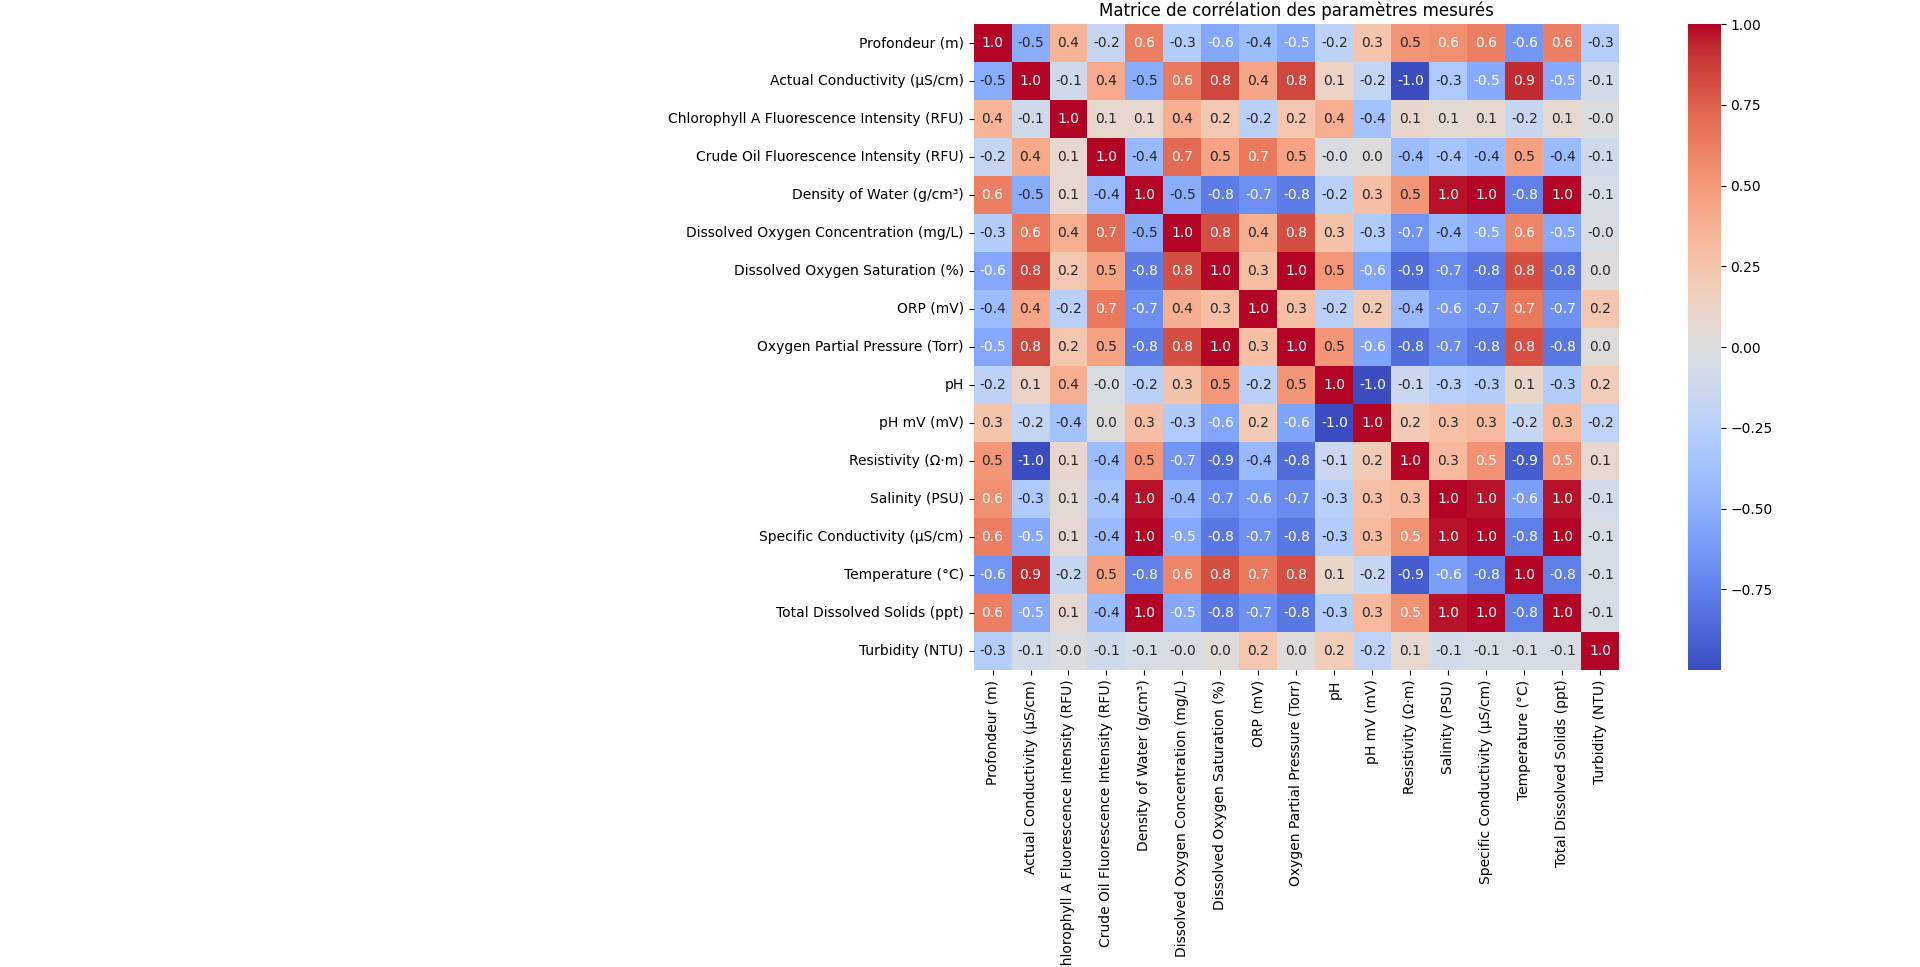
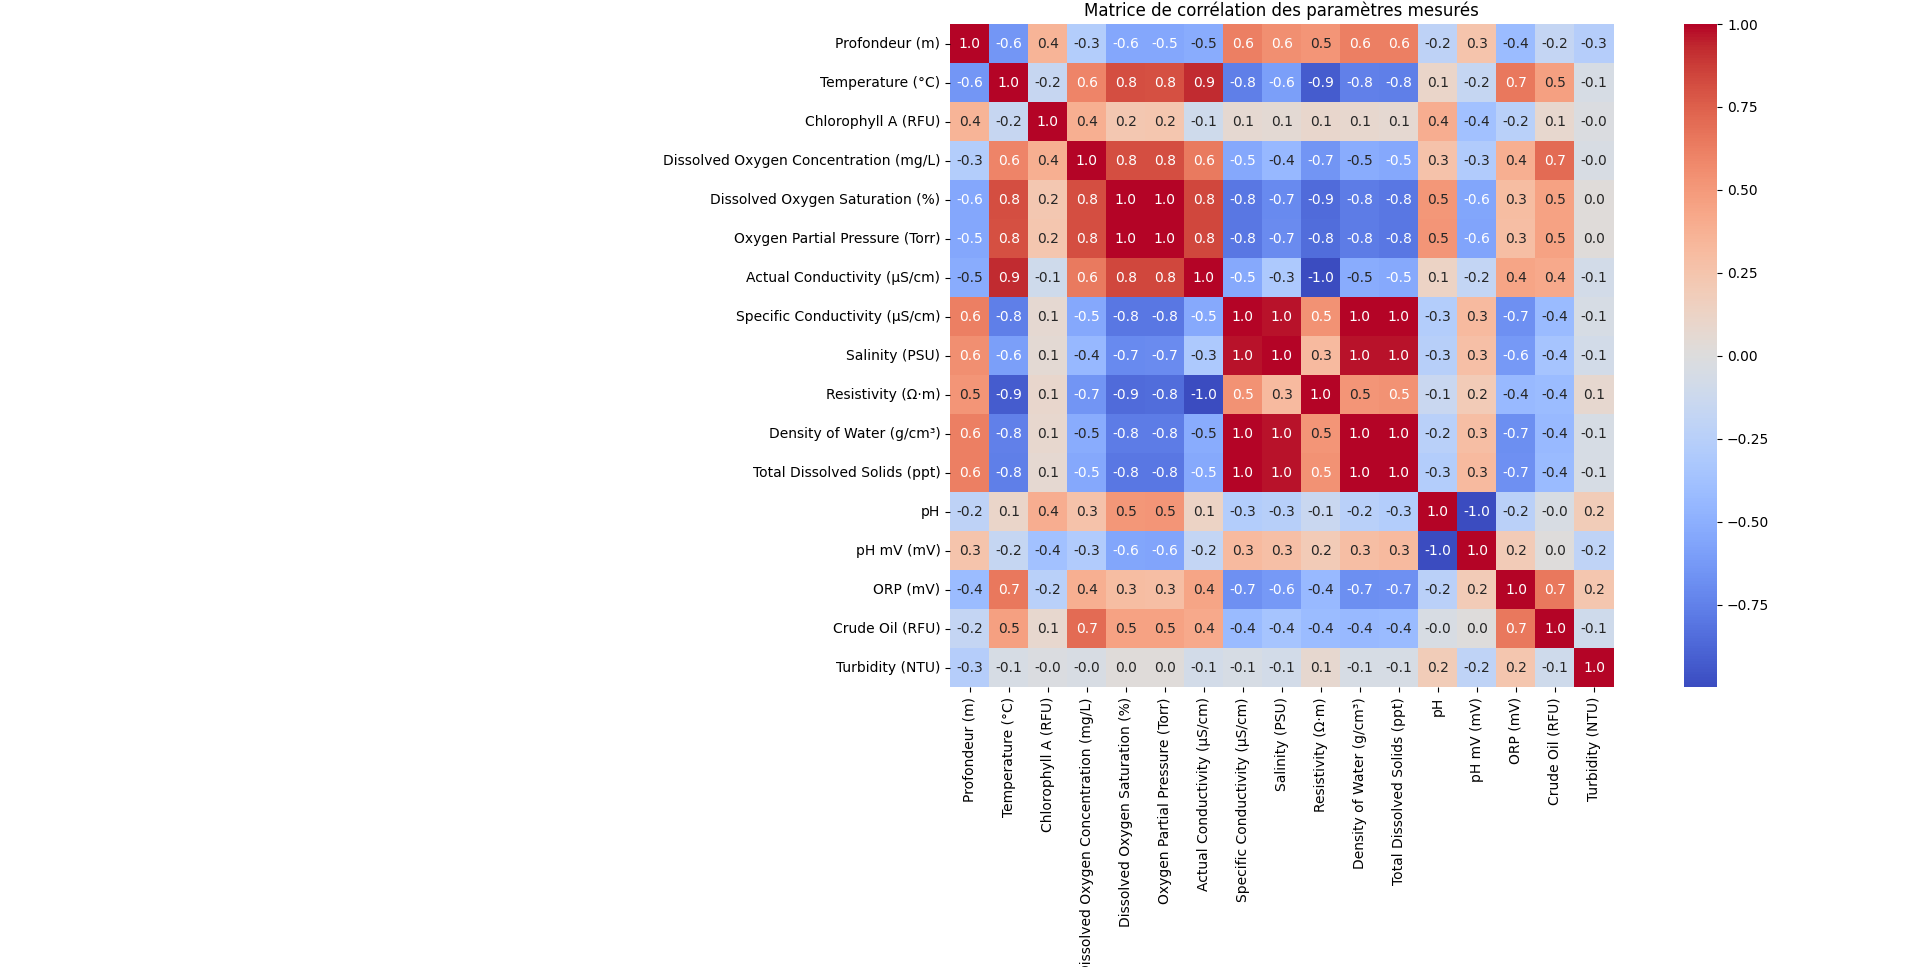
Refactor CSV columns and update data extraction script
Reordered and renamed columns in moyennes_paliers.csv for improved clarity and consistency. Updated save_data_csv.py to match new column order and naming, removed unnecessary comments, and simplified column sorting and filtering logic. Updated correlation 24-10.png to reflect latest results.

Changed region(s): [[0.3438, 0.0, 0.8438, 0.9928], [0.875, 0.031, 0.9375, 0.7135]]

diff --git a/scripts/save_data_csv.py b/scripts/save_data_csv.py
@@ -3,7 +3,7 @@ import glob
 import re
 import pandas as pd
 
-# Colonnes à ignorer (NE PAS inclure les colonnes Temperature ici si tu veux garder la "dernière" température)
+# Colonnes à ignorer
 IGNORER_COLONNES = {
     "DroneEasting", "Ts", "Depth", "Altitude", "Heading",
     "PilotLat", "PilotLon", "DroneLat", "DroneLon",
@@ -16,7 +16,7 @@ IGNORER_JOUR_VALEUR = {
     "2025-09-24": {"Dissolved Oxygen Concentration", "Dissolved Oxygen Saturation", "Oxygen Partial Pressure"},
 }
 
-# bornes en m des paliers (inchangées)
+# bornes en m des paliers
 PALIERS = {
     "1m":  (0.5, 2),
     "8m":  (6.5, 10),
@@ -42,7 +42,7 @@ def find_column(df: pd.DataFrame, target: str):
 
 def extraire_datetime(file_path):
     """
-    Lit la feuille 'Dive info' et récupère la datetime (même logique que précédemment).
+    Lit la feuille 'Dive info' et récupère la datetime
     """
     try:
         dive_info = pd.read_excel(file_path, sheet_name="Dive info", header=None)
@@ -97,7 +97,7 @@ def extraire_moyennes_par_palier(file_path):
 
 def _last_temperature_column(cols):
     """
-    Retourne le nom de la colonne 'temperature' à garder (celle avec le plus grand suffixe numérique).
+    Retourne le nom de la colonne 'temperature' à garder.
     Reconnaît: Temperature, Temperature_2, Temperature 3, Temperature-10, etc.
     Si aucune colonne temperature trouvée -> retourne None.
     """
@@ -152,7 +152,6 @@ def analyser_dossier_paliers(dossier):
         df_palier["Date"] = dt.normalize()
         df_palier["Profondeur"] = df_palier["Palier"].map(PALIERS_VALEUR)
 
-        # supprimer la colonne Palier si on veut; garder Profondeur comme demandé
         df_palier = df_palier.drop(columns=["Palier"])
 
         # ajouter lignes à la liste
@@ -164,7 +163,7 @@ def analyser_dossier_paliers(dossier):
     # concaténation de toutes les lignes
     df_long = pd.concat(all_rows, ignore_index=True, sort=False)
 
-    # --- NOUVEAU : si plusieurs mesures le même jour et même palier, faire la moyenne des mesures ---
+    # --- si plusieurs mesures le même jour et même palier, faire la moyenne des mesures ---
     # On calcule la moyenne des colonnes numériques; pour les colonnes non numériques on garde la première valeur rencontrée.
     cols_mesures = [c for c in df_long.columns if c not in ("Date", "Profondeur")]
     numeric_cols = df_long[cols_mesures].select_dtypes(include='number').columns.tolist()
@@ -176,14 +175,13 @@ def analyser_dossier_paliers(dossier):
     df_long = df_long.groupby(["Date", "Profondeur"], as_index=False).agg(agg_dict)
     # --- fin moyenne multiple même jour/palier ---
 
-    # Réordonner colonnes: Date, Profondeur, puis le reste trié
+    # Réordonner colonnes: Date, Profondeur, puis le reste
     other_cols = [c for c in df_long.columns if c not in ("Date", "Profondeur")]
-    other_cols_sorted = sorted(other_cols, key=lambda x: normalize_name(x))
-    df_long = df_long[["Date", "Profondeur"] + other_cols_sorted]
+    df_long = df_long[["Date", "Profondeur"] + other_cols]
 
-    # Appliquer suppression de colonnes à IGNORER (sur noms normalisés)
+    # Appliquer suppression de colonnes à IGNORER
     ignore_norm = {normalize_name(c) for c in IGNORER_COLONNES}
-    keep_cols = ["Date", "Profondeur"] + [c for c in other_cols_sorted if normalize_name(c) not in ignore_norm]
+    keep_cols = ["Date", "Profondeur"] + [c for c in other_cols if normalize_name(c) not in ignore_norm]
     df_long = df_long[keep_cols]
 
     # Appliquer IGNORER_JOUR_VALEUR: pour certaines dates, mettre NA pour certaines mesures
@@ -199,14 +197,13 @@ def analyser_dossier_paliers(dossier):
         except Exception as e:
             print(f"Erreur exclusion {date_str}: {e}")
 
-    # Optionnel: trier par date puis profondeur
     df_long = df_long.sort_values(["Date", "Profondeur"]).reset_index(drop=True)
 
     return df_long
 
 def sauvegarder_csv(df_long, output_path="resultats_paliers_long.csv"):
     """
-    Sauvegarde en CSV ; séparateur ';' pour compatibilitée locale.
+    Sauvegarde en CSV ; séparateur ';'.
     """
     df_to_save = df_long.copy()
     # Si Date est Timestamp, formater en date ISO (YYYY-MM-DD)
@@ -243,11 +240,10 @@ if __name__ == "__main__":
 
     # Ligne d'en-tête souhaitée (unités entre parenthèses)
     nouvelle_entete = (
-        "Date;Profondeur (m);Actual Conductivity (µS/cm);Chlorophyll A Fluorescence Intensity (RFU);"
-        "Crude Oil Fluorescence Intensity (RFU);Density of Water (g/cm³);Dissolved Oxygen Concentration (mg/L);"
-        "Dissolved Oxygen Saturation (%);ORP (mV);Oxygen Partial Pressure (Torr);pH;pH mV (mV);"
-        "Resistivity (Ω·m);Salinity (PSU);Specific Conductivity (µS/cm);Temperature (°C);"
-        "Total Dissolved Solids (ppt);Turbidity (NTU)"
+        "Date;Profondeur (m);Temperature (°C);Chlorophyll A (RFU);Dissolved Oxygen Concentration (mg/L);"
+        "Dissolved Oxygen Saturation (%);Oxygen Partial Pressure (Torr);Actual Conductivity (µS/cm);"
+        "Specific Conductivity (µS/cm);Salinity (PSU);Resistivity (Ω·m);Density of Water (g/cm³);"
+        "Total Dissolved Solids (ppt);pH;pH mV (mV);ORP (mV);Crude Oil (RFU);Turbidity (NTU)"
     )
 
     # Remplacer la première ligne du CSV par la nouvelle en-tête
